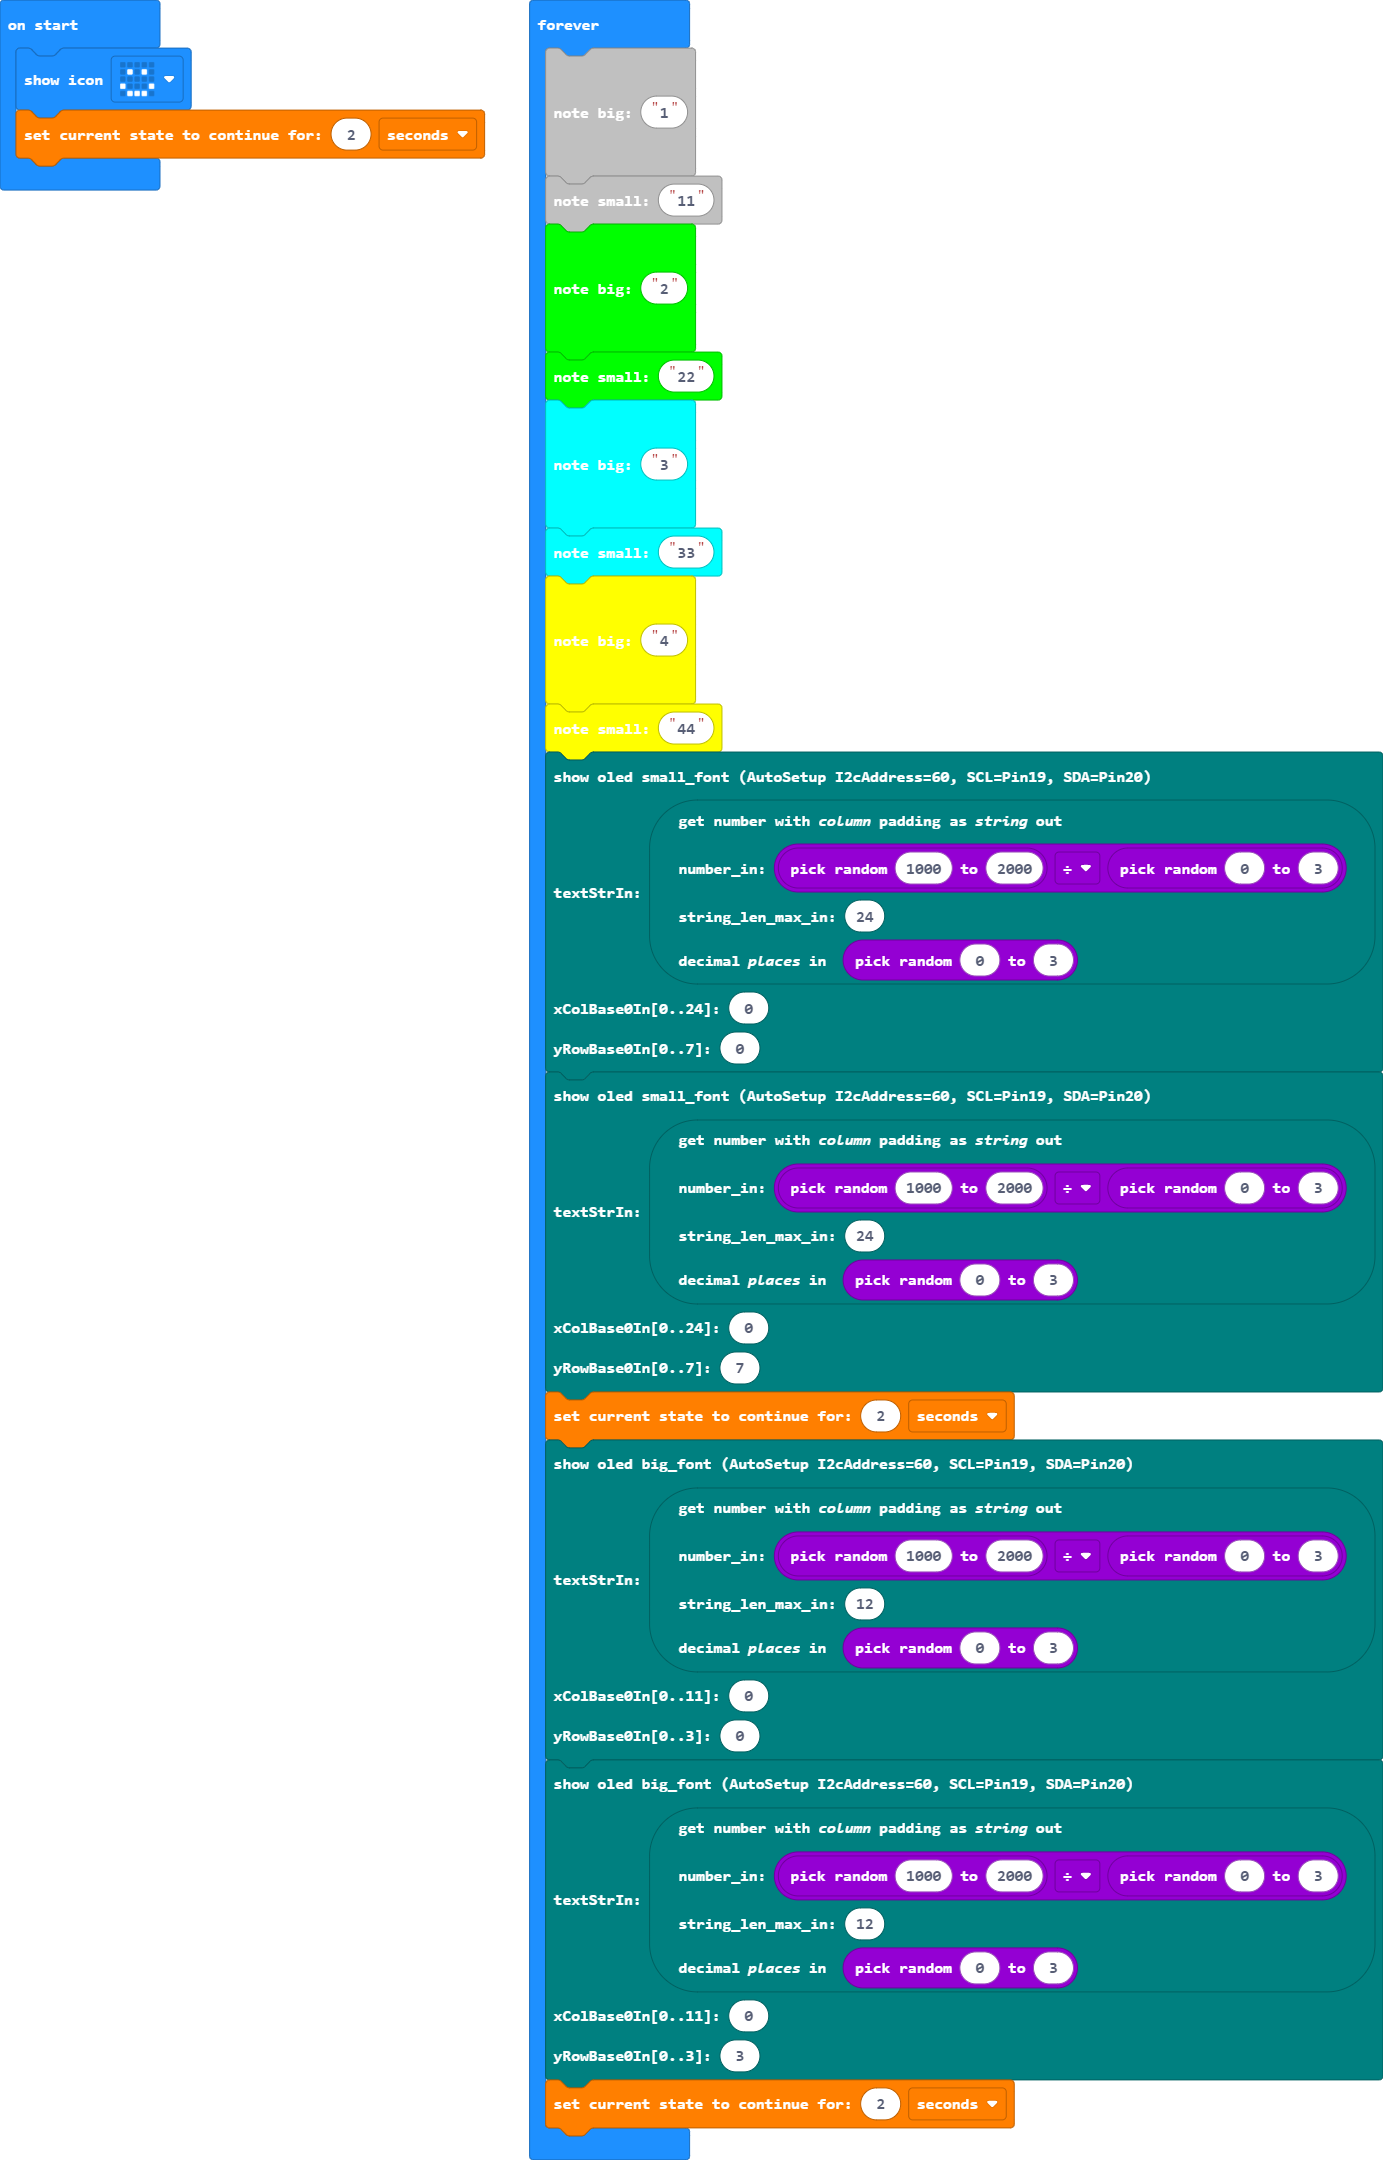
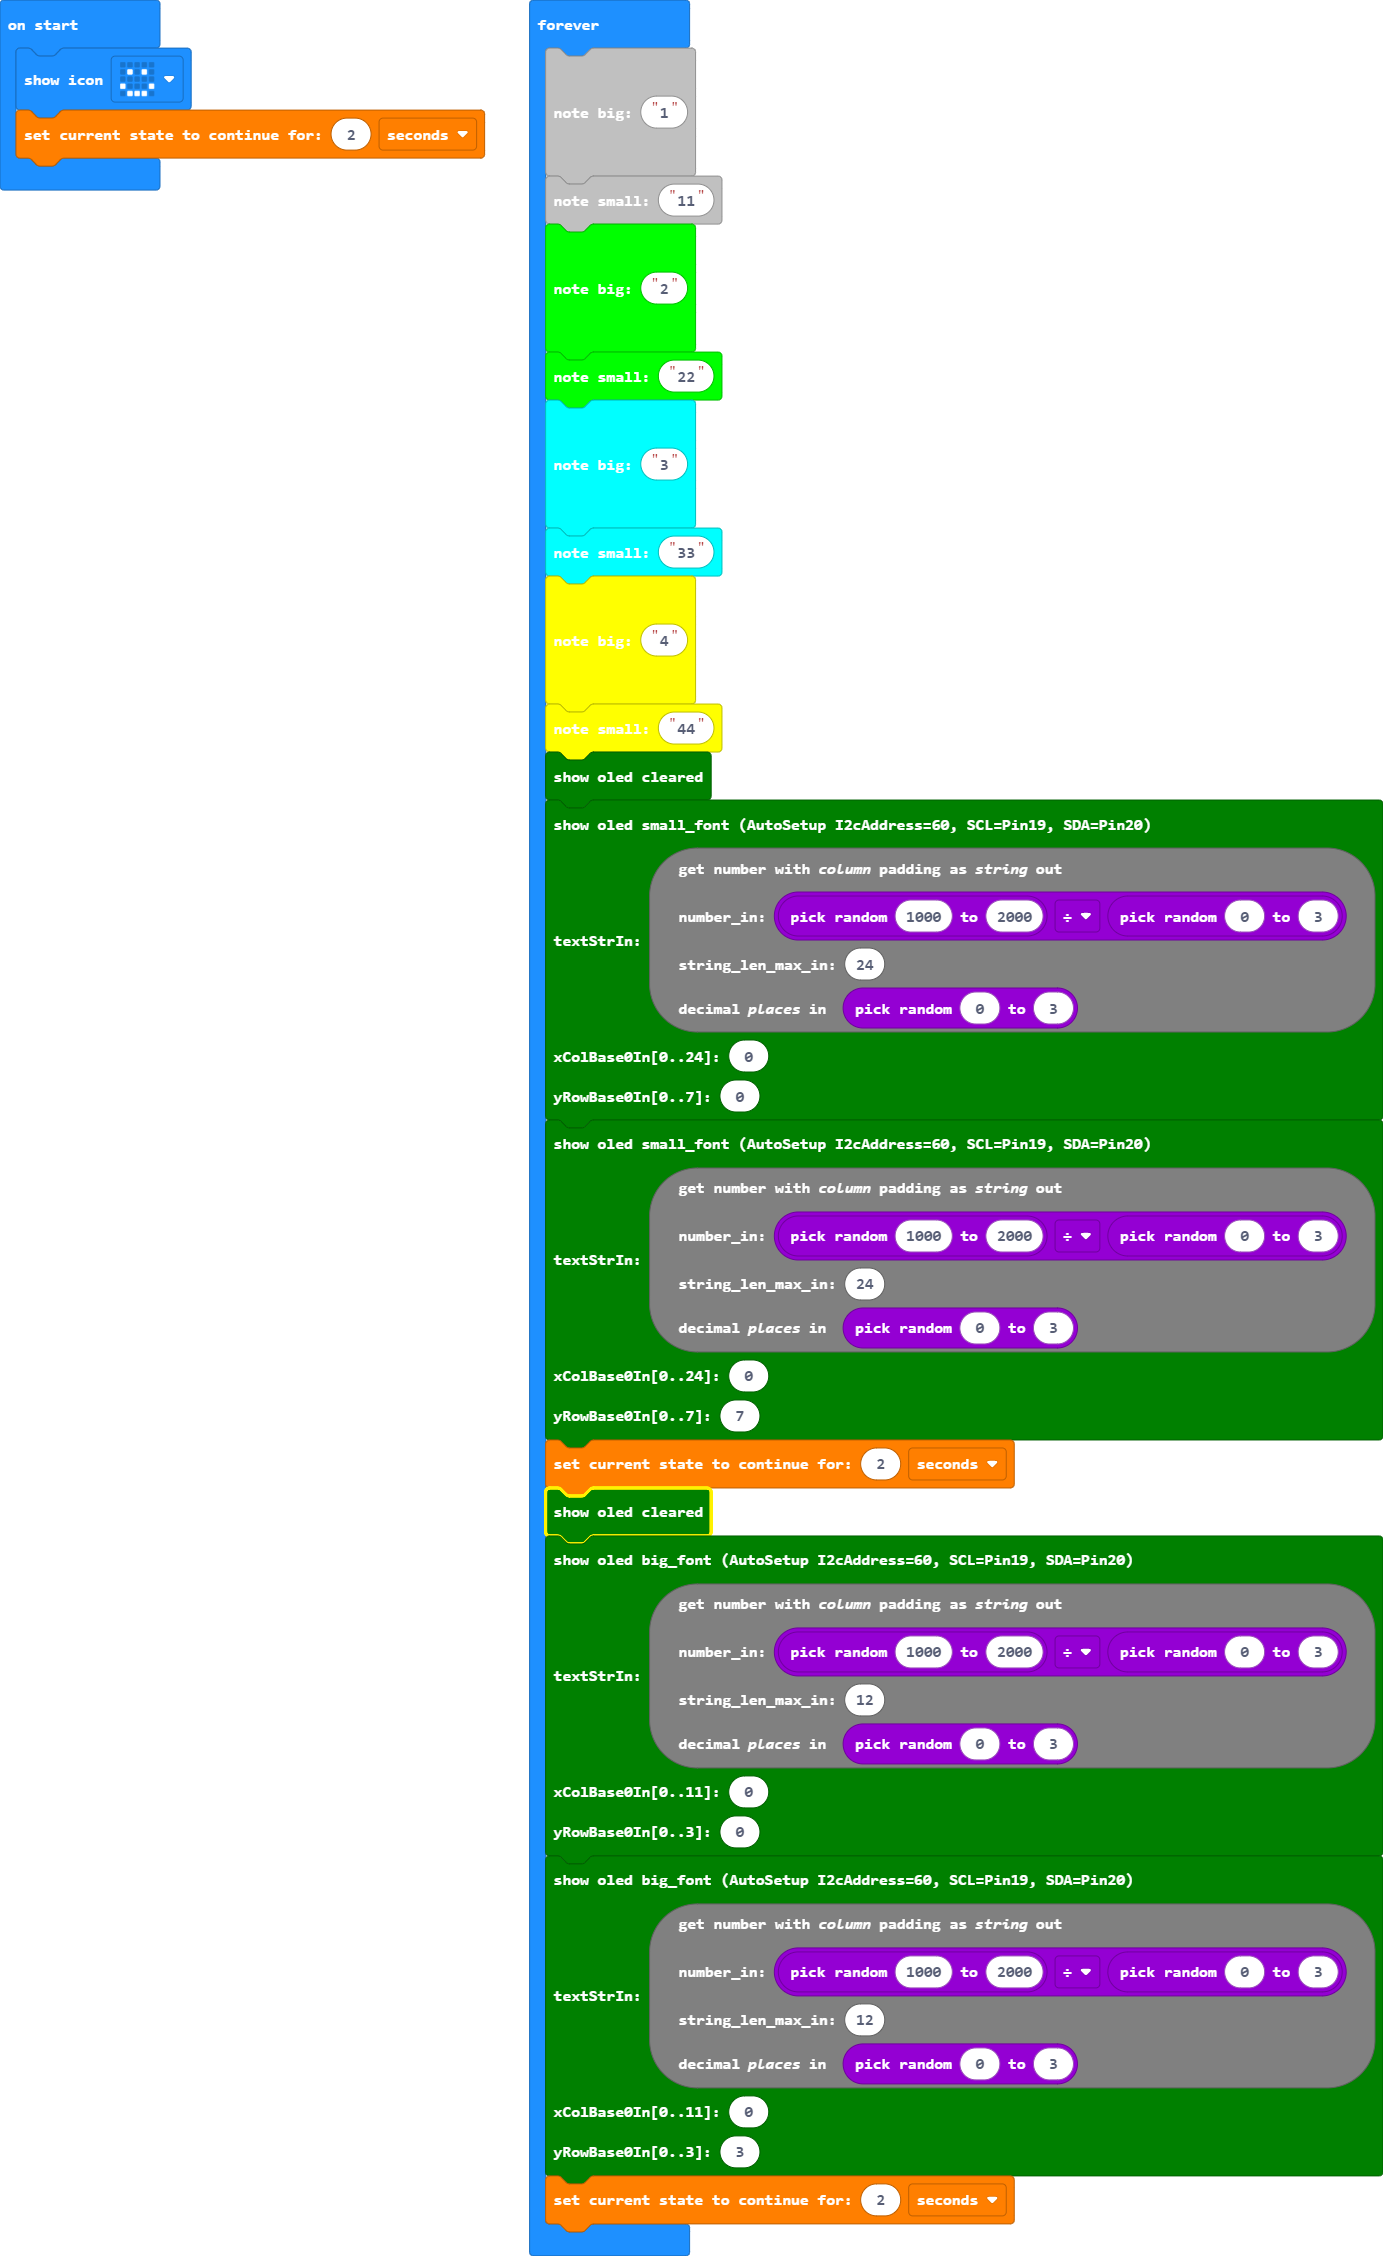
23-0225-1540 Oled Clear

diff --git a/main.ts b/main.ts
@@ -25,6 +25,8 @@ basic.forever(function () {
     quest_Note_4.rq_Show_String_For_Note_Small_Fn(
     "44"
     )
+    quest_Dashboard.rq_Show_Oled_Cleared_Fn(
+    )
     quest_Dashboard.rq_Show_String_For_Oled_SmallFont_Fn(
     quest_Algorithm.rq_Get_Number_WithColumnPadding_AsStringOut_Fn(
     randint(1000, 2000) / randint(0, 3),
@@ -44,6 +46,8 @@ basic.forever(function () {
     7
     )
     quest_Timer.rq_Set_ContinueCurrentState_CountdownTimer_Fn(2, rq_Time_Units_Enum.Seconds)
+    quest_Dashboard.rq_Show_Oled_Cleared_Fn(
+    )
     quest_Dashboard.rq_Show_String_For_Oled_BigFont_Fn(
     quest_Algorithm.rq_Get_Number_WithColumnPadding_AsStringOut_Fn(
     randint(1000, 2000) / randint(0, 3),

diff --git a/custom.ts b/custom.ts
@@ -96,6 +96,15 @@ namespace quest_Dashboard {
     OLED12864_I2C.clear()
  
     /**
+    * rq_Show_Oled_Cleared_Fn
+    */
+    //% block="show oled cleared"
+    //% weight=53 blockGap=8
+    //% inlineInputMode=external
+    export function rq_Show_Oled_Cleared_Fn() {
+        OLED12864_I2C.clear()
+    }
+    /**
     * rq_Show_String_For_Oled_BigFont_Fn
     * @param textStrIn string
     * @param xColBase0In number
